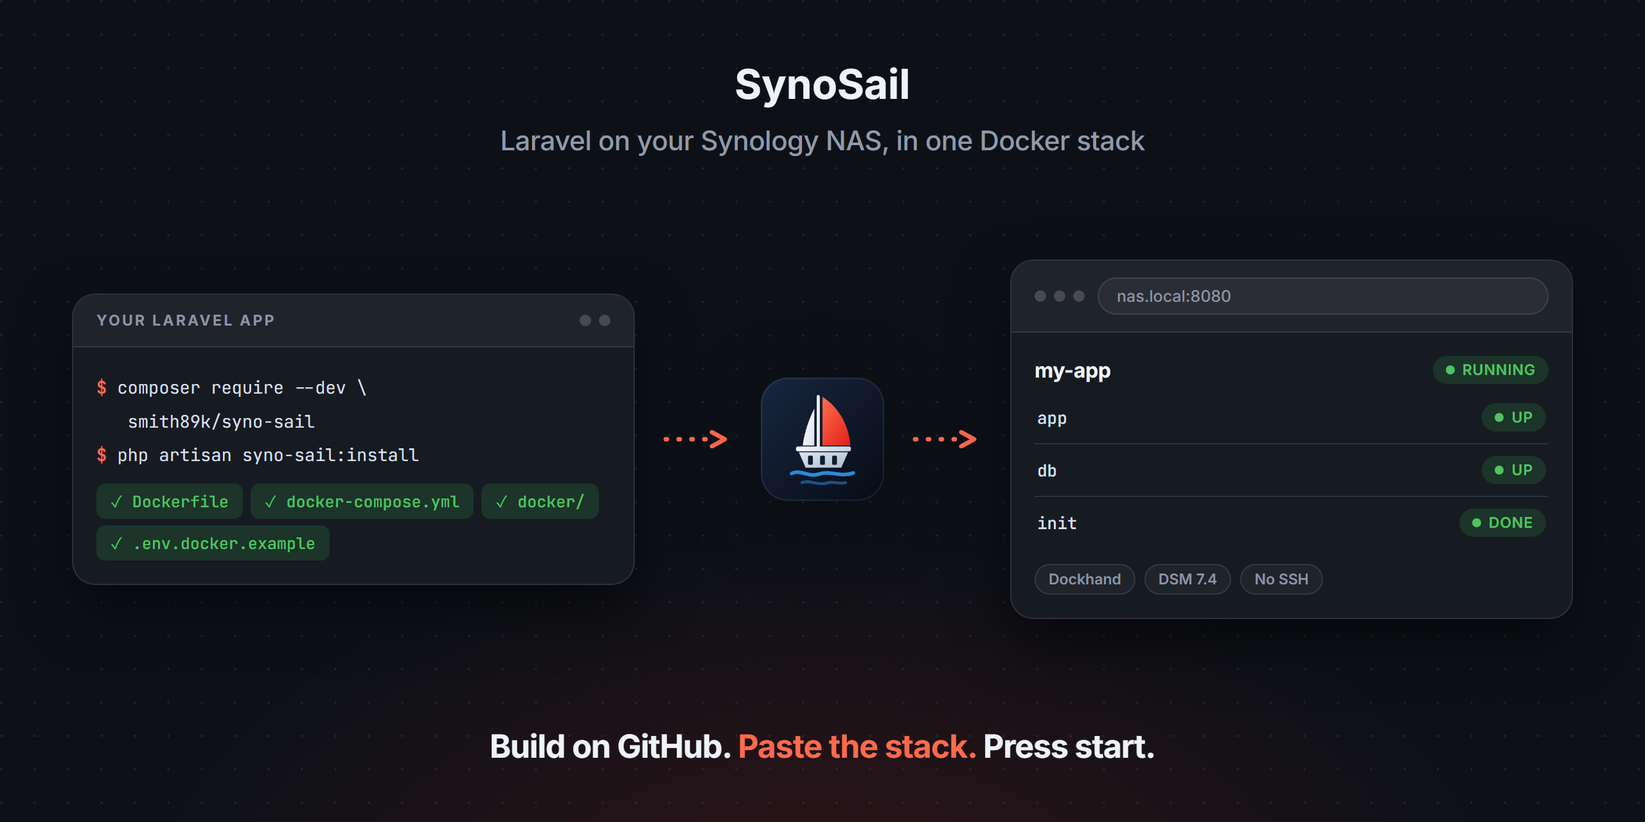
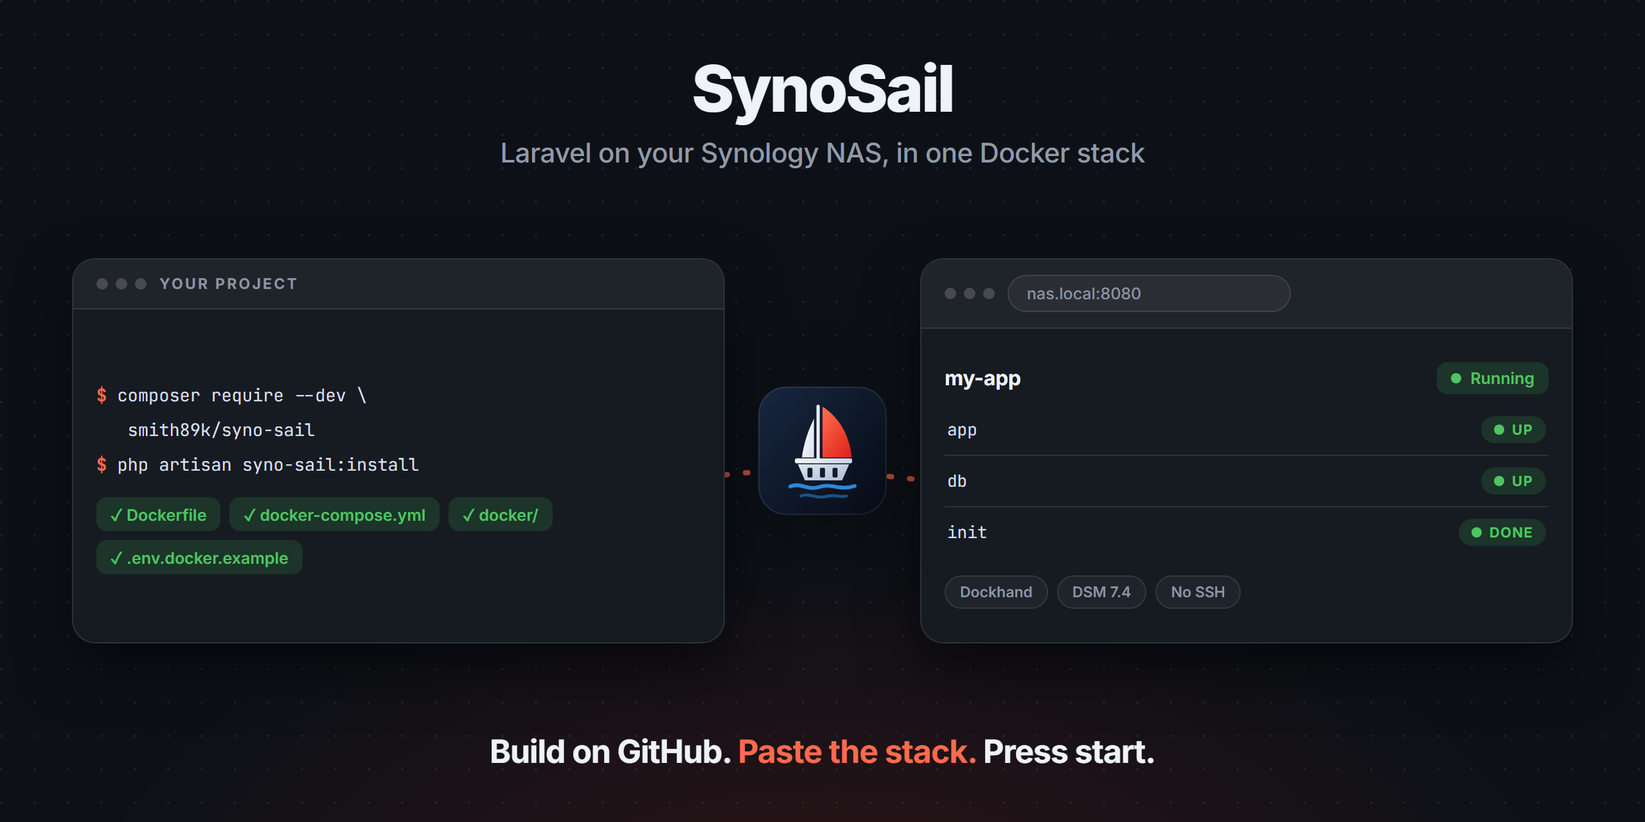
Add brand assets and a new README header
Adds art/ with a logo (SVG), a favicon, a light and dark README banner
drawn for what this project does (with the HTML source next to it) and a
1280x640 social preview. The README now opens with a centred logo,
title, one-line pitch and badges, followed by a theme-aware <picture>.

Claude-Session: https://claude.ai/code/session_01N9WhB6hMATjfZZY1zVEDWa

diff --git a/art/banner-dark.html b/art/banner-dark.html
@@ -1,84 +1,65 @@
 <!doctype html><html><head><meta charset="utf-8">
 <link rel="preconnect" href="https://fonts.googleapis.com">
 <link rel="preconnect" href="https://fonts.gstatic.com" crossorigin>
-<link href="https://fonts.googleapis.com/css2?family=Inter:wght@400;500;600;700;800&family=JetBrains+Mono:wght@400;500;600&display=swap" rel="stylesheet">
+<link href="https://fonts.googleapis.com/css2?family=Inter:wght@400;500;600;700;800;900&family=JetBrains+Mono:wght@400;500;600;700&display=swap" rel="stylesheet">
 <style>
 *{margin:0;padding:0;box-sizing:border-box}
 html,body{width:1280px;height:640px;overflow:hidden}
-body{
-  font-family:'Inter','Segoe UI',system-ui,sans-serif;
+body{font-family:'Inter','Segoe UI',system-ui,sans-serif;color:#EEF3FA;
   background:
-    radial-gradient(760px 420px at 50% 112%,rgba(224,36,26,.16),transparent 70%),
+    radial-gradient(820px 460px at 50% 118%,rgba(224,36,26,.16),transparent 72%),
     radial-gradient(circle at 1px 1px,rgba(255,255,255,.07) 1px,transparent 0) 0 0/26px 26px,
-    #0D1117;
-  color:#EEF3FA;
-  display:flex;flex-direction:column;align-items:center;
-  padding:46px 56px 44px;
-}}
+    #0D1117;}
+.page{width:100%;height:100%;padding:44px 56px 40px;display:flex;flex-direction:column}
+
 h1{font-size:50px;font-weight:800;letter-spacing:-.035em;line-height:1}
+h1 .a{color:#FF6A4D}
 .sub{margin-top:12px;font-size:21px;font-weight:450;color:#919AA7;letter-spacing:-.012em}
-.stage{flex:1;display:flex;align-items:center;justify-content:center;gap:22px;width:100%;margin:4px 0 2px}
-
-.card{flex:1;min-width:0;background:#161B22;border:1px solid rgba(255,255,255,.10);border-radius:18px;
-  box-shadow:0 18px 44px rgba(0,0,0,.55);overflow:hidden}
-.bar{display:flex;align-items:center;gap:10px;padding:13px 18px;background:rgba(255,255,255,.04);
-  border-bottom:1px solid rgba(255,255,255,.10)}
-.bar .t{font-size:11.5px;font-weight:700;letter-spacing:.14em;color:#8B94A3;text-transform:uppercase}
-.dots{display:flex;gap:6px;margin-left:auto}
-.dots i{width:9px;height:9px;border-radius:50%;background:rgba(255,255,255,.18);display:block}
-.url{flex:1;background:rgba(255,255,255,.05);border:1px solid rgba(255,255,255,.10);border-radius:999px;
-  padding:6px 14px;font-size:12.5px;color:#8B94A3;font-weight:500}
-.body{padding:18px}
-
-.mono{font-family:'JetBrains Mono',Consolas,monospace;font-size:13.5px;line-height:1.95;
-  color:#D7DFEA;white-space:nowrap}
-.mono .pr{color:#FF6A4D;font-weight:600}
-.mono .dim{color:#919AA7}
-
-.ok{display:inline-flex;align-items:center;gap:7px;background:rgba(63,185,80,.16);color:#4FC463;
-  font-family:'JetBrains Mono',Consolas,monospace;font-size:12.5px;font-weight:500;
-  padding:5px 11px;border-radius:7px;margin:5px 6px 0 0}
-
-.row{display:flex;align-items:center;gap:10px;padding:9px 2px;font-size:14px;font-weight:500}
-.row + .row{border-top:1px solid rgba(255,255,255,.10)}
-.row .n{font-family:'JetBrains Mono',Consolas,monospace;font-size:13px;color:#D7DFEA}
-.row .s{margin-left:auto;display:inline-flex;align-items:center;gap:6px;font-size:11.5px;
-  font-weight:600;letter-spacing:.04em;text-transform:uppercase;color:#4FC463;
-  background:rgba(63,185,80,.16);padding:4px 10px;border-radius:999px}
-.led{width:7px;height:7px;border-radius:50%;background:#4FC463}
-
-.head{display:flex;align-items:center;gap:10px;margin-bottom:6px}
-.head b{font-size:16px;font-weight:700;letter-spacing:-.01em}
-.head .s{margin-left:auto;display:inline-flex;align-items:center;gap:6px;font-size:11.5px;
-  font-weight:600;letter-spacing:.04em;text-transform:uppercase;color:#4FC463;
-  background:rgba(63,185,80,.16);padding:4px 10px;border-radius:999px}
-.foot{display:flex;gap:7px;margin-top:12px}
-.tagp{font-size:11.5px;font-weight:600;color:#8B94A3;background:rgba(255,255,255,.04);
-  border:1px solid rgba(255,255,255,.10);padding:4px 10px;border-radius:999px}
-
-.bub{background:rgba(255,255,255,.055);border-radius:14px;padding:11px 14px;font-size:13.5px;line-height:1.5;
-  color:#D7DFEA}
-.bub.me{background:#FF6A4D;color:#fff;font-weight:500}
-.bub + .bub{margin-top:9px}
-.bub b{font-weight:700}
-.bub .li{color:#919AA7;font-size:12.5px}
-
-.mid{display:flex;flex-direction:column;align-items:center;gap:0;flex:0 0 auto}
-.mid img{width:96px;height:96px;display:block;filter:drop-shadow(0 14px 30px rgba(0,0,0,.28))}
-.arrow{flex:0 0 auto;display:flex;align-items:center}
-.arrow svg{display:block}
-
-.tag{margin-top:6px;font-size:25px;font-weight:700;letter-spacing:-.022em}
+.tag{font-size:25px;font-weight:700;letter-spacing:-.022em}
 .tag .a{color:#FF6A4D}
-</style></head><body>
-<h1>SynoSail</h1>
-<div class="sub">Laravel on your Synology NAS, in one Docker stack</div>
-<div class="stage">
-  <div class="card"><div class="bar"><span class="t">Your Laravel app</span><span class="dots"><i></i><i></i></span></div><div class="body"><div class="mono"><span class="pr">$</span> composer require --dev \</div><div class="mono"><span class="dim">&nbsp;&nbsp;&nbsp;</span>smith89k/syno-sail</div><div class="mono"><span class="pr">$</span> php artisan syno-sail:install</div><div style="margin-top:4px"><span class="ok">&#10003; Dockerfile</span><span class="ok">&#10003; docker-compose.yml</span><span class="ok">&#10003; docker/</span><span class="ok">&#10003; .env.docker.example</span></div></div></div>
-  <div class="arrow"><svg width="54" height="14" viewBox="0 0 54 14"><path d="M2 7 H40" stroke="#FF6A4D" stroke-width="3.4" stroke-linecap="round" stroke-dasharray="1 9"/><path d="M38 1.5 L48 7 L38 12.5" fill="none" stroke="#FF6A4D" stroke-width="3.4" stroke-linecap="round" stroke-linejoin="round"/></svg></div>
-  <div class="mid"><img src="logo.svg"></div>
-  <div class="arrow"><svg width="54" height="14" viewBox="0 0 54 14"><path d="M2 7 H40" stroke="#FF6A4D" stroke-width="3.4" stroke-linecap="round" stroke-dasharray="1 9"/><path d="M38 1.5 L48 7 L38 12.5" fill="none" stroke="#FF6A4D" stroke-width="3.4" stroke-linecap="round" stroke-linejoin="round"/></svg></div>
-  <div class="card"><div class="bar"><span class="dots" style="margin:0"><i></i><i></i><i></i></span><span class="url">nas.local:8080</span></div><div class="body"><div class="head"><b>my-app</b><span class="s"><span class="led"></span>Running</span></div><div class="row"><span class="n">app</span><span class="s"><span class="led"></span>Up</span></div><div class="row"><span class="n">db</span><span class="s"><span class="led"></span>Up</span></div><div class="row"><span class="n">init</span><span class="s"><span class="led"></span>Done</span></div><div class="foot"><span class="tagp">Dockhand</span><span class="tagp">DSM 7.4</span><span class="tagp">No SSH</span></div></div></div>
-</div>
-<div class="tag">Build on GitHub. <span class="a">Paste the stack.</span> Press start.</div>
-</body></html>
+.mid{flex:1;display:flex;align-items:center;justify-content:center;gap:24px;min-height:0}
+
+.win{background:#161B22;border:1px solid rgba(255,255,255,.10);border-radius:18px;
+  box-shadow:0 18px 44px rgba(0,0,0,.55);overflow:hidden;display:flex;flex-direction:column}
+.bar{display:flex;align-items:center;gap:10px;padding:12px 18px;background:rgba(255,255,255,.04);
+  border-bottom:1px solid rgba(255,255,255,.10);flex:0 0 auto}
+.bar .t{font-size:11.5px;font-weight:700;letter-spacing:.14em;color:#8B94A3;text-transform:uppercase}
+.dots{display:flex;gap:6px}
+.dots i{width:9px;height:9px;border-radius:50%;background:rgba(255,255,255,.18);display:block}
+.pill{background:rgba(255,255,255,.05);border:1px solid rgba(255,255,255,.10);border-radius:999px;padding:6px 14px;
+  font-size:12.5px;color:#8B94A3;font-weight:500}
+.pad{padding:18px;flex:1;display:flex;flex-direction:column;justify-content:center;min-height:0}
+
+.mono{font-family:'JetBrains Mono',Consolas,monospace;color:#D7DFEA}
+.chip{display:inline-flex;align-items:center;gap:7px;font-size:11.5px;font-weight:600;
+  color:#8B94A3;background:rgba(255,255,255,.04);border:1px solid rgba(255,255,255,.10);padding:5px 11px;
+  border-radius:999px;white-space:nowrap}
+.chip.on{color:#fff;background:#FF6A4D;border-color:transparent}
+.ok{display:inline-flex;align-items:center;gap:7px;background:rgba(63,185,80,.16);color:#4FC463;
+  font-size:12.5px;font-weight:600;padding:5px 11px;border-radius:8px}
+.warn{background:rgba(240,160,60,.16);color:#F0A83C}
+.dot{width:8px;height:8px;border-radius:50%;display:inline-block;background:currentColor}
+.muted{color:#919AA7}
+.accent{color:#FF6A4D}
+.row{display:flex;align-items:center;gap:11px}
+.grow{flex:1}
+.logo{filter:drop-shadow(0 14px 30px rgba(0,0,0,.30))}
+
+.route{position:absolute;left:0;right:0;top:54%;transform:translateY(-50%);z-index:0}
+.mid > .win,.mid > .ship{position:relative;z-index:1}
+.ship{display:flex;flex-direction:column;align-items:center}
+.port{flex:1;min-width:0;min-height:300px}
+.cmd{font-family:'JetBrains Mono',Consolas,monospace;font-size:13.5px;line-height:2;
+  color:#D7DFEA;white-space:nowrap}
+.cmd .p{color:#FF6A4D;font-weight:700}
+.files{display:flex;flex-wrap:wrap;gap:7px;margin-top:12px}
+.svc{display:flex;align-items:center;gap:10px;padding:9px 2px;font-size:14px}
+.svc + .svc{border-top:1px solid rgba(255,255,255,.10)}
+.svc .n{font-family:'JetBrains Mono',Consolas,monospace;font-size:13px;color:#D7DFEA}
+.svc .s{margin-left:auto;display:inline-flex;align-items:center;gap:6px;font-size:11px;
+  font-weight:700;letter-spacing:.06em;text-transform:uppercase;color:#4FC463;
+  background:rgba(63,185,80,.16);padding:4px 10px;border-radius:999px}
+
+</style></head><body><div class="page">
+<div style="display:flex;flex-direction:column;text-align:center;align-items:center;flex:0 0 auto"><h1>SynoSail</h1><div class="sub">Laravel on your Synology NAS, in one Docker stack</div></div><div class="mid" style="position:relative;gap:26px"><svg class="route" width="1168" height="120" viewBox="0 0 1168 120" preserveAspectRatio="none"><path d="M0 72 C 150 30 300 110 460 70 C 620 30 760 108 920 66 C 1040 34 1120 60 1168 52" fill="none" stroke="#FF6A4D" stroke-width="4" stroke-linecap="round" stroke-dasharray="2 14" opacity=".75"/></svg><div class="win port"><div class="bar"><span class="dots"><i></i><i></i><i></i></span><span class="t">Your project</span><span class="grow"></span></div><div class="pad"><div class="cmd"><span class="p">$</span> composer require --dev \</div><div class="cmd">&nbsp;&nbsp;&nbsp;smith89k/syno-sail</div><div class="cmd"><span class="p">$</span> php artisan syno-sail:install</div><div class="files"><span class="ok">&#10003; Dockerfile</span><span class="ok">&#10003; docker-compose.yml</span><span class="ok">&#10003; docker/</span><span class="ok">&#10003; .env.docker.example</span></div></div></div><div class="ship"><img class="logo" src="logo.svg" width="100" height="100" style="flex:0 0 auto;"></div><div class="win port"><div class="bar"><span class="dots"><i></i><i></i><i></i></span><span class="pill grow">nas.local:8080</span><span class="grow"></span></div><div class="pad"><div class="row" style="margin-bottom:8px"><b style="font-size:16px;letter-spacing:-.01em">my-app</b><span class="grow"></span><span class="ok"><span class="dot"></span>Running</span></div><div class="svc"><span class="n">app</span><span class="s"><span class="dot"></span>Up</span></div><div class="svc"><span class="n">db</span><span class="s"><span class="dot"></span>Up</span></div><div class="svc"><span class="n">init</span><span class="s"><span class="dot"></span>Done</span></div><div class="files" style="margin-top:14px"><span class="chip">Dockhand</span><span class="chip">DSM 7.4</span><span class="chip">No SSH</span></div></div></div></div><div class="tag" style="text-align:center;margin-top:0px;flex:0 0 auto">Build on GitHub. <span class="a">Paste the stack.</span> Press start.</div>
+</div></body></html>

diff --git a/art/banner-light.html b/art/banner-light.html
@@ -1,84 +1,65 @@
 <!doctype html><html><head><meta charset="utf-8">
 <link rel="preconnect" href="https://fonts.googleapis.com">
 <link rel="preconnect" href="https://fonts.gstatic.com" crossorigin>
-<link href="https://fonts.googleapis.com/css2?family=Inter:wght@400;500;600;700;800&family=JetBrains+Mono:wght@400;500;600&display=swap" rel="stylesheet">
+<link href="https://fonts.googleapis.com/css2?family=Inter:wght@400;500;600;700;800;900&family=JetBrains+Mono:wght@400;500;600;700&display=swap" rel="stylesheet">
 <style>
 *{margin:0;padding:0;box-sizing:border-box}
 html,body{width:1280px;height:640px;overflow:hidden}
-body{
-  font-family:'Inter','Segoe UI',system-ui,sans-serif;
+body{font-family:'Inter','Segoe UI',system-ui,sans-serif;color:#14171C;
   background:
-    radial-gradient(760px 420px at 50% 112%,rgba(217,43,28,.10),transparent 70%),
+    radial-gradient(820px 460px at 50% 118%,rgba(217,43,28,.10),transparent 72%),
     radial-gradient(circle at 1px 1px,rgba(0,0,0,.07) 1px,transparent 0) 0 0/26px 26px,
-    #EFEEE9;
-  color:#14171C;
-  display:flex;flex-direction:column;align-items:center;
-  padding:46px 56px 44px;
-}}
+    #EFEEE9;}
+.page{width:100%;height:100%;padding:44px 56px 40px;display:flex;flex-direction:column}
+
 h1{font-size:50px;font-weight:800;letter-spacing:-.035em;line-height:1}
+h1 .a{color:#D92B1C}
 .sub{margin-top:12px;font-size:21px;font-weight:450;color:#5C636E;letter-spacing:-.012em}
-.stage{flex:1;display:flex;align-items:center;justify-content:center;gap:22px;width:100%;margin:4px 0 2px}
-
-.card{flex:1;min-width:0;background:#FBFAF8;border:1px solid rgba(0,0,0,.09);border-radius:18px;
-  box-shadow:0 18px 44px rgba(20,24,33,.10);overflow:hidden}
-.bar{display:flex;align-items:center;gap:10px;padding:13px 18px;background:rgba(0,0,0,.035);
-  border-bottom:1px solid rgba(0,0,0,.09)}
-.bar .t{font-size:11.5px;font-weight:700;letter-spacing:.14em;color:#6B7280;text-transform:uppercase}
-.dots{display:flex;gap:6px;margin-left:auto}
-.dots i{width:9px;height:9px;border-radius:50%;background:rgba(0,0,0,.14);display:block}
-.url{flex:1;background:#FFFFFF;border:1px solid rgba(0,0,0,.09);border-radius:999px;
-  padding:6px 14px;font-size:12.5px;color:#6B7280;font-weight:500}
-.body{padding:18px}
-
-.mono{font-family:'JetBrains Mono',Consolas,monospace;font-size:13.5px;line-height:1.95;
-  color:#2B303A;white-space:nowrap}
-.mono .pr{color:#D92B1C;font-weight:600}
-.mono .dim{color:#5C636E}
-
-.ok{display:inline-flex;align-items:center;gap:7px;background:#E4F2E8;color:#1E7A3F;
-  font-family:'JetBrains Mono',Consolas,monospace;font-size:12.5px;font-weight:500;
-  padding:5px 11px;border-radius:7px;margin:5px 6px 0 0}
-
-.row{display:flex;align-items:center;gap:10px;padding:9px 2px;font-size:14px;font-weight:500}
-.row + .row{border-top:1px solid rgba(0,0,0,.09)}
-.row .n{font-family:'JetBrains Mono',Consolas,monospace;font-size:13px;color:#2B303A}
-.row .s{margin-left:auto;display:inline-flex;align-items:center;gap:6px;font-size:11.5px;
-  font-weight:600;letter-spacing:.04em;text-transform:uppercase;color:#1E7A3F;
-  background:#E4F2E8;padding:4px 10px;border-radius:999px}
-.led{width:7px;height:7px;border-radius:50%;background:#1E7A3F}
-
-.head{display:flex;align-items:center;gap:10px;margin-bottom:6px}
-.head b{font-size:16px;font-weight:700;letter-spacing:-.01em}
-.head .s{margin-left:auto;display:inline-flex;align-items:center;gap:6px;font-size:11.5px;
-  font-weight:600;letter-spacing:.04em;text-transform:uppercase;color:#1E7A3F;
-  background:#E4F2E8;padding:4px 10px;border-radius:999px}
-.foot{display:flex;gap:7px;margin-top:12px}
-.tagp{font-size:11.5px;font-weight:600;color:#6B7280;background:rgba(0,0,0,.035);
-  border:1px solid rgba(0,0,0,.09);padding:4px 10px;border-radius:999px}
-
-.bub{background:#F1EFEB;border-radius:14px;padding:11px 14px;font-size:13.5px;line-height:1.5;
-  color:#2B303A}
-.bub.me{background:#D92B1C;color:#fff;font-weight:500}
-.bub + .bub{margin-top:9px}
-.bub b{font-weight:700}
-.bub .li{color:#5C636E;font-size:12.5px}
-
-.mid{display:flex;flex-direction:column;align-items:center;gap:0;flex:0 0 auto}
-.mid img{width:96px;height:96px;display:block;filter:drop-shadow(0 14px 30px rgba(0,0,0,.28))}
-.arrow{flex:0 0 auto;display:flex;align-items:center}
-.arrow svg{display:block}
-
-.tag{margin-top:6px;font-size:25px;font-weight:700;letter-spacing:-.022em}
+.tag{font-size:25px;font-weight:700;letter-spacing:-.022em}
 .tag .a{color:#D92B1C}
-</style></head><body>
-<h1>SynoSail</h1>
-<div class="sub">Laravel on your Synology NAS, in one Docker stack</div>
-<div class="stage">
-  <div class="card"><div class="bar"><span class="t">Your Laravel app</span><span class="dots"><i></i><i></i></span></div><div class="body"><div class="mono"><span class="pr">$</span> composer require --dev \</div><div class="mono"><span class="dim">&nbsp;&nbsp;&nbsp;</span>smith89k/syno-sail</div><div class="mono"><span class="pr">$</span> php artisan syno-sail:install</div><div style="margin-top:4px"><span class="ok">&#10003; Dockerfile</span><span class="ok">&#10003; docker-compose.yml</span><span class="ok">&#10003; docker/</span><span class="ok">&#10003; .env.docker.example</span></div></div></div>
-  <div class="arrow"><svg width="54" height="14" viewBox="0 0 54 14"><path d="M2 7 H40" stroke="#D92B1C" stroke-width="3.4" stroke-linecap="round" stroke-dasharray="1 9"/><path d="M38 1.5 L48 7 L38 12.5" fill="none" stroke="#D92B1C" stroke-width="3.4" stroke-linecap="round" stroke-linejoin="round"/></svg></div>
-  <div class="mid"><img src="logo.svg"></div>
-  <div class="arrow"><svg width="54" height="14" viewBox="0 0 54 14"><path d="M2 7 H40" stroke="#D92B1C" stroke-width="3.4" stroke-linecap="round" stroke-dasharray="1 9"/><path d="M38 1.5 L48 7 L38 12.5" fill="none" stroke="#D92B1C" stroke-width="3.4" stroke-linecap="round" stroke-linejoin="round"/></svg></div>
-  <div class="card"><div class="bar"><span class="dots" style="margin:0"><i></i><i></i><i></i></span><span class="url">nas.local:8080</span></div><div class="body"><div class="head"><b>my-app</b><span class="s"><span class="led"></span>Running</span></div><div class="row"><span class="n">app</span><span class="s"><span class="led"></span>Up</span></div><div class="row"><span class="n">db</span><span class="s"><span class="led"></span>Up</span></div><div class="row"><span class="n">init</span><span class="s"><span class="led"></span>Done</span></div><div class="foot"><span class="tagp">Dockhand</span><span class="tagp">DSM 7.4</span><span class="tagp">No SSH</span></div></div></div>
-</div>
-<div class="tag">Build on GitHub. <span class="a">Paste the stack.</span> Press start.</div>
-</body></html>
+.mid{flex:1;display:flex;align-items:center;justify-content:center;gap:24px;min-height:0}
+
+.win{background:#FBFAF8;border:1px solid rgba(0,0,0,.09);border-radius:18px;
+  box-shadow:0 18px 44px rgba(20,24,33,.10);overflow:hidden;display:flex;flex-direction:column}
+.bar{display:flex;align-items:center;gap:10px;padding:12px 18px;background:rgba(0,0,0,.035);
+  border-bottom:1px solid rgba(0,0,0,.09);flex:0 0 auto}
+.bar .t{font-size:11.5px;font-weight:700;letter-spacing:.14em;color:#6B7280;text-transform:uppercase}
+.dots{display:flex;gap:6px}
+.dots i{width:9px;height:9px;border-radius:50%;background:rgba(0,0,0,.14);display:block}
+.pill{background:#FFFFFF;border:1px solid rgba(0,0,0,.09);border-radius:999px;padding:6px 14px;
+  font-size:12.5px;color:#6B7280;font-weight:500}
+.pad{padding:18px;flex:1;display:flex;flex-direction:column;justify-content:center;min-height:0}
+
+.mono{font-family:'JetBrains Mono',Consolas,monospace;color:#2B303A}
+.chip{display:inline-flex;align-items:center;gap:7px;font-size:11.5px;font-weight:600;
+  color:#6B7280;background:rgba(0,0,0,.035);border:1px solid rgba(0,0,0,.09);padding:5px 11px;
+  border-radius:999px;white-space:nowrap}
+.chip.on{color:#fff;background:#D92B1C;border-color:transparent}
+.ok{display:inline-flex;align-items:center;gap:7px;background:#E4F2E8;color:#1E7A3F;
+  font-size:12.5px;font-weight:600;padding:5px 11px;border-radius:8px}
+.warn{background:#FBE7D4;color:#AF560E}
+.dot{width:8px;height:8px;border-radius:50%;display:inline-block;background:currentColor}
+.muted{color:#5C636E}
+.accent{color:#D92B1C}
+.row{display:flex;align-items:center;gap:11px}
+.grow{flex:1}
+.logo{filter:drop-shadow(0 14px 30px rgba(0,0,0,.30))}
+
+.route{position:absolute;left:0;right:0;top:54%;transform:translateY(-50%);z-index:0}
+.mid > .win,.mid > .ship{position:relative;z-index:1}
+.ship{display:flex;flex-direction:column;align-items:center}
+.port{flex:1;min-width:0;min-height:300px}
+.cmd{font-family:'JetBrains Mono',Consolas,monospace;font-size:13.5px;line-height:2;
+  color:#2B303A;white-space:nowrap}
+.cmd .p{color:#D92B1C;font-weight:700}
+.files{display:flex;flex-wrap:wrap;gap:7px;margin-top:12px}
+.svc{display:flex;align-items:center;gap:10px;padding:9px 2px;font-size:14px}
+.svc + .svc{border-top:1px solid rgba(0,0,0,.09)}
+.svc .n{font-family:'JetBrains Mono',Consolas,monospace;font-size:13px;color:#2B303A}
+.svc .s{margin-left:auto;display:inline-flex;align-items:center;gap:6px;font-size:11px;
+  font-weight:700;letter-spacing:.06em;text-transform:uppercase;color:#1E7A3F;
+  background:#E4F2E8;padding:4px 10px;border-radius:999px}
+
+</style></head><body><div class="page">
+<div style="display:flex;flex-direction:column;text-align:center;align-items:center;flex:0 0 auto"><h1>SynoSail</h1><div class="sub">Laravel on your Synology NAS, in one Docker stack</div></div><div class="mid" style="position:relative;gap:26px"><svg class="route" width="1168" height="120" viewBox="0 0 1168 120" preserveAspectRatio="none"><path d="M0 72 C 150 30 300 110 460 70 C 620 30 760 108 920 66 C 1040 34 1120 60 1168 52" fill="none" stroke="#D92B1C" stroke-width="4" stroke-linecap="round" stroke-dasharray="2 14" opacity=".75"/></svg><div class="win port"><div class="bar"><span class="dots"><i></i><i></i><i></i></span><span class="t">Your project</span><span class="grow"></span></div><div class="pad"><div class="cmd"><span class="p">$</span> composer require --dev \</div><div class="cmd">&nbsp;&nbsp;&nbsp;smith89k/syno-sail</div><div class="cmd"><span class="p">$</span> php artisan syno-sail:install</div><div class="files"><span class="ok">&#10003; Dockerfile</span><span class="ok">&#10003; docker-compose.yml</span><span class="ok">&#10003; docker/</span><span class="ok">&#10003; .env.docker.example</span></div></div></div><div class="ship"><img class="logo" src="logo.svg" width="100" height="100" style="flex:0 0 auto;"></div><div class="win port"><div class="bar"><span class="dots"><i></i><i></i><i></i></span><span class="pill grow">nas.local:8080</span><span class="grow"></span></div><div class="pad"><div class="row" style="margin-bottom:8px"><b style="font-size:16px;letter-spacing:-.01em">my-app</b><span class="grow"></span><span class="ok"><span class="dot"></span>Running</span></div><div class="svc"><span class="n">app</span><span class="s"><span class="dot"></span>Up</span></div><div class="svc"><span class="n">db</span><span class="s"><span class="dot"></span>Up</span></div><div class="svc"><span class="n">init</span><span class="s"><span class="dot"></span>Done</span></div><div class="files" style="margin-top:14px"><span class="chip">Dockhand</span><span class="chip">DSM 7.4</span><span class="chip">No SSH</span></div></div></div></div><div class="tag" style="text-align:center;margin-top:0px;flex:0 0 auto">Build on GitHub. <span class="a">Paste the stack.</span> Press start.</div>
+</div></body></html>

diff --git a/README.md b/README.md
@@ -6,16 +6,16 @@
 
 **Run your Laravel app on a Synology NAS: build the image on GitHub, paste one stack into your Docker manager, press start.**
 
-<a href="https://packagist.org/packages/smith89k/syno-sail"><img src="https://img.shields.io/packagist/v/smith89k/syno-sail" alt="Latest Version"></a>
-<a href="https://packagist.org/packages/smith89k/syno-sail"><img src="https://img.shields.io/packagist/dt/smith89k/syno-sail" alt="Total Downloads"></a>
-<a href="https://github.com/smith89k/syno-sail/blob/main/composer.json"><img src="https://img.shields.io/packagist/l/smith89k/syno-sail" alt="License"></a>
-<a href="https://github.com/smith89k/syno-sail#readme"><img src="https://img.shields.io/badge/Synology-DSM%207-0C4B8E" alt="Synology DSM 7"></a>
+<a href="https://packagist.org/packages/smith89k/syno-sail"><img src="https://img.shields.io/packagist/v/smith89k/syno-sail" alt="Latest version"></a>
+<a href="https://packagist.org/packages/smith89k/syno-sail"><img src="https://img.shields.io/packagist/dt/smith89k/syno-sail" alt="Downloads"></a>
+<a href="https://github.com/smith89k/syno-sail/blob/main/composer.json"><img src="https://img.shields.io/packagist/l/smith89k/syno-sail" alt="Licence"></a>
+<img src="https://img.shields.io/badge/Synology-DSM%207-0C4B8E" alt="Synology DSM 7">
 
 </div>
 
 <picture>
   <source media="(prefers-color-scheme: dark)" srcset="art/banner-dark.png">
-  <img src="art/banner-light.png" alt="SynoSail: composer require and php artisan syno-sail:install produce a Dockerfile and docker-compose.yml, which run as a stack on a Synology NAS." width="100%">
+  <img src="art/banner-light.png" alt="SynoSail: two commands in a Laravel project produce a Dockerfile and docker-compose.yml, and the stack runs on a Synology NAS." width="100%">
 </picture>
 
 SynoSail is a drop-in package designed for Laravel developers who want to deploy their applications on a **Synology NAS** using third-party Docker GUI managers like **Dockhand**, **Dockge**, **Arcane**, or **Portainer**.
